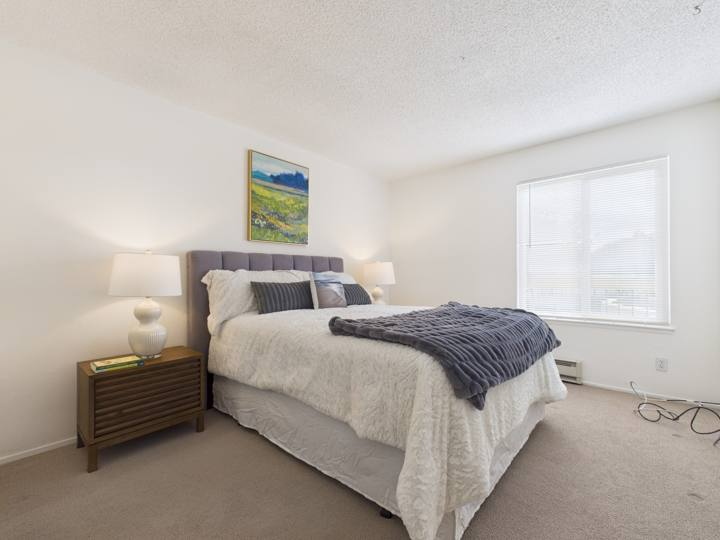
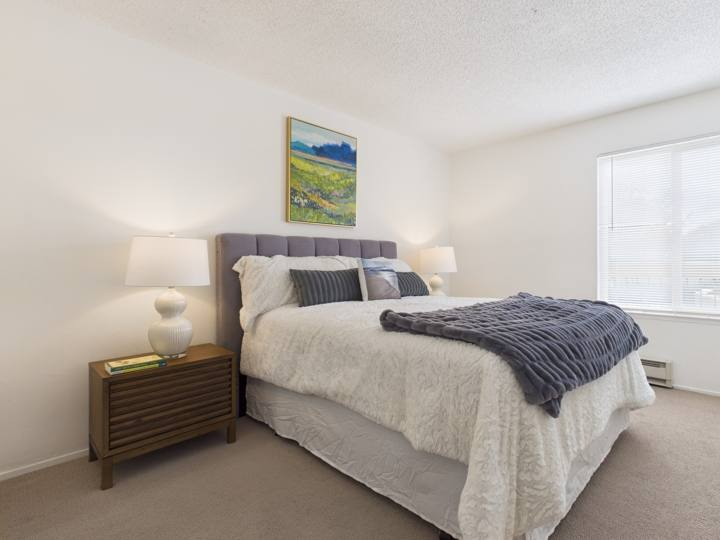
Add files via upload

diff --git a/index.html b/index.html
@@ -68,7 +68,7 @@ nav{display:flex;gap:26px;align-items:center}
 nav a{color:#e9efe2;text-decoration:none;font-size:.82rem;font-weight:600;letter-spacing:.08em;text-transform:uppercase}
 nav a:hover{color:var(--gold)}
 nav .btn{padding:.6em 1.2em;text-transform:none;letter-spacing:.02em;color:#1b2a12}
-@media (max-width:900px){nav a:not(.btn){display:none}}
+@media (max-width:1080px){nav a:not(.btn){display:none}}
 @media (max-width:760px){nav .btn{display:none}}
 
 /* hero */
@@ -127,6 +127,8 @@ nav .btn{padding:.6em 1.2em;text-transform:none;letter-spacing:.02em;color:#1b2a
 /* tour + plan */
 .stage{position:relative;aspect-ratio:16/9;border-radius:6px;overflow:hidden;background:#0a140b;box-shadow:0 30px 80px -30px rgba(0,0,0,.6)}
 @media (max-width:700px){.stage{aspect-ratio:4/5}}
+.stage.card{aspect-ratio:4/3;max-height:820px;width:100%}
+@media (max-width:700px){.stage.card{aspect-ratio:3/5}}
 .stage iframe{position:absolute;inset:0;width:100%;height:100%;border:0}
 .facade{position:absolute;inset:0;display:grid;place-items:center;text-align:center;color:#fff;background-size:cover;background-position:center}
 .facade::before{content:"";position:absolute;inset:0;background:rgba(12,26,14,.55)}
@@ -216,6 +218,7 @@ footer b{color:#e9efe2;font-weight:600}
       <a href="#tour">3D tour</a>
       <a href="#plan">Floor plan</a>
       <a href="#community">Golden Oaks</a>
+      <a href="#neighborhood">Neighborhood</a>
       <a class="btn btn-gold" href="#contact">Schedule a showing</a>
     </nav>
   </div>
@@ -254,7 +257,7 @@ footer b{color:#e9efe2;font-weight:600}
         <p>Inside, everything is on one level: an open living and dining room with a fireplace, an updated kitchen with stainless appliances, two bedrooms, and a bath with a separate dressing room and walk-in closet. Parking and the laundry are a short walk from the door.</p>
         <p><a class="btn btn-dark" href="#gallery">See every room</a></p>
       </div>
-      <div class="frame"><img src="img/living.jpg" alt="Living room with fireplace and sliding doors to the patio" loading="lazy"></div>
+      <div class="frame"><img src="img/patio.jpg" alt="The expanded patio with seating, looking toward the oaks" loading="lazy"></div>
     </div>
     <ul class="feats">
       <li><b>Single level</b><span>Ground-floor entry with no interior stairs.</span></li>
@@ -264,7 +267,7 @@ footer b{color:#e9efe2;font-weight:600}
       <li><b>Updated kitchen</b><span>Stone-look counters and stainless appliances.</span></li>
       <li><b>Dressing room</b><span>Separate vanity area plus a walk-in closet.</span></li>
       <li><b>Included</b><span>Range, refrigerator and dishwasher.</span></li>
-      <li><b>Close by</b><span>Parking and community laundry near the door.</span></li>
+      <li><b>Parking and laundry</b><span>Underground reserved parking, with community laundry near the door.</span></li>
     </ul>
   </div>
 </section>
@@ -272,7 +275,7 @@ footer b{color:#e9efe2;font-weight:600}
 <section id="gallery" class="night">
   <div class="wrap">
     <div class="head">
-      <div><p class="eyebrow">Gallery</p><h2>Room by <em>room.</em></h2></div>
+      <div><p class="eyebrow">Gallery</p><h2>Outside in, <em>room by room.</em></h2></div>
       <p class="muted">Select any photo to view it full screen. Use the arrow keys to move between photos.</p>
     </div>
     <div class="grid" id="grid"></div>
@@ -340,13 +343,33 @@ footer b{color:#e9efe2;font-weight:600}
     </div>
     <div class="mosaic">
       <figure><img src="img/oaks.jpg" alt="Lawn and benches under the oak trees at Golden Oaks" loading="lazy"><span class="cap">The oak grove</span></figure>
-      <figure><img src="img/pool-sm.jpg" alt="Community pool" loading="lazy"><span class="cap">Pool</span></figure>
+      <figure><img src="img/pool-new-sm.jpg" alt="Community pool" loading="lazy"><span class="cap">Pool</span></figure>
       <figure><img src="img/clubhouse-sm.jpg" alt="Clubhouse patio" loading="lazy"><span class="cap">Clubhouse</span></figure>
       <figure><img src="img/entrance-sm.jpg" alt="Golden Oaks Condominiums entrance sign" loading="lazy"><span class="cap">Entrance</span></figure>
-      <figure><img src="img/exterior2-sm.jpg" alt="Building exterior and landscaped walk" loading="lazy"><span class="cap">The approach</span></figure>
+      <figure><img src="img/picnic-sm.jpg" alt="Mosaic picnic table beside the pool" loading="lazy"><span class="cap">Picnic court</span></figure>
     </div>
   </div>
 </section>
+
+
+<section id="neighborhood" style="background:#f1ecd8">
+  <div class="wrap">
+    <div class="head">
+      <div><p class="eyebrow">Location and neighborhood</p><h2>Around <em>Golden Oaks.</em></h2></div>
+      <p class="muted">An interactive property card: the community from above, the location, media and documents.</p>
+    </div>
+    <div class="stage card" id="cardStage">
+      <div class="facade" style="background-image:url(img/pool-aerial.jpg)">
+        <div>
+          <h3>Golden Oaks property card</h3>
+          <a class="btn btn-gold" id="cardGo" href="https://app.propertycards.ai/recoe7HquXuxg564x" target="_blank" rel="noopener">Open the property card</a>
+        </div>
+      </div>
+    </div>
+    <div class="under"><span class="muted">Property card by PropertyCards</span><a href="https://app.propertycards.ai/recoe7HquXuxg564x" target="_blank" rel="noopener" style="color:var(--forest);font-weight:600">Open the card in a new tab &rarr;</a></div>
+  </div>
+</section>
+
 
 
 <section id="why" class="paper">
@@ -425,11 +448,11 @@ var TOUR_URL = "https://tour.giraffe360.com/ee6f2360bb324ba2b6e3f24dcafe0441/?v=
 var PLAN3D_URL = "https://my.giraffe360.com/3dflp/t8bc521";
 var R = "";
 var PHOTOS = [
-  ["living","Living room","big"],["kitchen-dining","Kitchen and dining",""],["kitchen","Kitchen",""],
-  ["dining","Dining","wide"],["primary","Primary bedroom","big"],["living2","Living room",""],
-  ["bath","Bath vanity",""],["bedroom2","Second bedroom","wide"],["kitchen2","Kitchen",""],
-  ["primary2","Primary bedroom",""],["bath2","Bath",""],["closet","Walk-in closet",""],
-  ["exterior","Building exterior","wide"],["exterior2","The approach","wide"]
+  ["exterior","Building exterior","big"],["patio-view","View from the patio",""],["garden","Garden outlook",""],
+  ["patio","Expanded patio","wide"],["exterior2","The approach","wide"],["pool-new","Community pool","wide"],
+  ["living","Living room","big"],["fireplace","Fireplace",""],["dining-detail","Dining",""],
+  ["dining","Dining","wide"],["kitchen-dining","Kitchen and dining","wide"],["kitchen","Kitchen",""],
+  ["kitchen2","Kitchen",""],["primary","Primary bedroom","wide"],["bedroom2","Second bedroom","wide"]
 ];
 // ---------------------------------------------------------------------
 (function(){
@@ -463,6 +486,10 @@ var PHOTOS = [
     var f=document.createElement("iframe");f.src=TOUR_URL;f.title="3D virtual tour of 2107 Golden Oaks Lane";f.allowFullscreen=true;f.allow="fullscreen; xr-spatial-tracking; gyroscope; accelerometer";
     var s=document.getElementById("tourStage");s.innerHTML="";s.appendChild(f);
   });
+
+  // property card: plays inside the page on the live site
+  var cs=document.getElementById("cardStage");
+  if(cs&&EMBED){var cf=document.createElement("iframe");cf.src="https://app.propertycards.ai/recoe7HquXuxg564x";cf.title="Golden Oaks interactive property card";cf.loading="lazy";cf.allowFullscreen=true;cs.innerHTML="";cs.appendChild(cf)}
 
   // floor plan toggle
   var tg=document.getElementById("toggle"),b2=document.getElementById("b2d"),b3=document.getElementById("b3d"),p2=document.getElementById("plan2d"),p3=document.getElementById("plan3d");

diff --git a/mls/index.html b/mls/index.html
@@ -68,7 +68,7 @@ nav{display:flex;gap:26px;align-items:center}
 nav a{color:#e9efe2;text-decoration:none;font-size:.82rem;font-weight:600;letter-spacing:.08em;text-transform:uppercase}
 nav a:hover{color:var(--gold)}
 nav .btn{padding:.6em 1.2em;text-transform:none;letter-spacing:.02em;color:#1b2a12}
-@media (max-width:900px){nav a:not(.btn){display:none}}
+@media (max-width:1080px){nav a:not(.btn){display:none}}
 @media (max-width:760px){nav .btn{display:none}}
 
 /* hero */
@@ -127,6 +127,8 @@ nav .btn{padding:.6em 1.2em;text-transform:none;letter-spacing:.02em;color:#1b2a
 /* tour + plan */
 .stage{position:relative;aspect-ratio:16/9;border-radius:6px;overflow:hidden;background:#0a140b;box-shadow:0 30px 80px -30px rgba(0,0,0,.6)}
 @media (max-width:700px){.stage{aspect-ratio:4/5}}
+.stage.card{aspect-ratio:4/3;max-height:820px;width:100%}
+@media (max-width:700px){.stage.card{aspect-ratio:3/5}}
 .stage iframe{position:absolute;inset:0;width:100%;height:100%;border:0}
 .facade{position:absolute;inset:0;display:grid;place-items:center;text-align:center;color:#fff;background-size:cover;background-position:center}
 .facade::before{content:"";position:absolute;inset:0;background:rgba(12,26,14,.55)}
@@ -166,7 +168,7 @@ nav .btn{padding:.6em 1.2em;text-transform:none;letter-spacing:.02em;color:#1b2a
 .why{display:grid;grid-template-columns:repeat(3,1fr);gap:0;margin-top:44px;border-top:1px solid var(--line)}
 .why div{padding:28px 28px 0 0}
 .why b{display:block;font-family:var(--display);font-weight:300;font-size:clamp(2.6rem,5vw,4.2rem);color:var(--forest);line-height:1;font-variant-numeric:tabular-nums}
-.why span{display:block;margin-top:10px;color:var(--muted);font-size:.95rem;max-width:30ch}
+.why span{display:block;margin-top:10px;color:var(--muted);font-size:.95rem;max-width:34ch}
 @media (max-width:760px){.why{grid-template-columns:1fr}}
 
 /* contact */
@@ -217,6 +219,7 @@ footer b{color:#e9efe2;font-weight:600}
       <a href="#plan">Floor plan</a>
       <a href="#community">Golden Oaks</a>
       
+      
     </nav>
   </div>
 </header>
@@ -254,7 +257,7 @@ footer b{color:#e9efe2;font-weight:600}
         <p>Inside, everything is on one level: an open living and dining room with a fireplace, an updated kitchen with stainless appliances, two bedrooms, and a bath with a separate dressing room and walk-in closet. Parking and the laundry are a short walk from the door.</p>
         <p><a class="btn btn-dark" href="#gallery">See every room</a></p>
       </div>
-      <div class="frame"><img src="../img/living.jpg" alt="Living room with fireplace and sliding doors to the patio" loading="lazy"></div>
+      <div class="frame"><img src="../img/patio.jpg" alt="The expanded patio with seating, looking toward the oaks" loading="lazy"></div>
     </div>
     <ul class="feats">
       <li><b>Single level</b><span>Ground-floor entry with no interior stairs.</span></li>
@@ -264,7 +267,7 @@ footer b{color:#e9efe2;font-weight:600}
       <li><b>Updated kitchen</b><span>Stone-look counters and stainless appliances.</span></li>
       <li><b>Dressing room</b><span>Separate vanity area plus a walk-in closet.</span></li>
       <li><b>Included</b><span>Range, refrigerator and dishwasher.</span></li>
-      <li><b>Close by</b><span>Parking and community laundry near the door.</span></li>
+      <li><b>Parking and laundry</b><span>Underground reserved parking, with community laundry near the door.</span></li>
     </ul>
   </div>
 </section>
@@ -272,7 +275,7 @@ footer b{color:#e9efe2;font-weight:600}
 <section id="gallery" class="night">
   <div class="wrap">
     <div class="head">
-      <div><p class="eyebrow">Gallery</p><h2>Room by <em>room.</em></h2></div>
+      <div><p class="eyebrow">Gallery</p><h2>Outside in, <em>room by room.</em></h2></div>
       <p class="muted">Select any photo to view it full screen. Use the arrow keys to move between photos.</p>
     </div>
     <div class="grid" id="grid"></div>
@@ -340,13 +343,15 @@ footer b{color:#e9efe2;font-weight:600}
     </div>
     <div class="mosaic">
       <figure><img src="../img/oaks.jpg" alt="Lawn and benches under the oak trees at Golden Oaks" loading="lazy"><span class="cap">The oak grove</span></figure>
-      <figure><img src="../img/pool-sm.jpg" alt="Community pool" loading="lazy"><span class="cap">Pool</span></figure>
+      <figure><img src="../img/pool-new-sm.jpg" alt="Community pool" loading="lazy"><span class="cap">Pool</span></figure>
       <figure><img src="../img/clubhouse-sm.jpg" alt="Clubhouse patio" loading="lazy"><span class="cap">Clubhouse</span></figure>
       <figure><img src="../img/entrance-sm.jpg" alt="Golden Oaks Condominiums entrance sign" loading="lazy"><span class="cap">Entrance</span></figure>
-      <figure><img src="../img/exterior2-sm.jpg" alt="Building exterior and landscaped walk" loading="lazy"><span class="cap">The approach</span></figure>
+      <figure><img src="../img/picnic-sm.jpg" alt="Mosaic picnic table beside the pool" loading="lazy"><span class="cap">Picnic court</span></figure>
     </div>
   </div>
 </section>
+
+
 
 
 
@@ -374,11 +379,11 @@ var TOUR_URL = "https://tour.giraffe360.com/ee6f2360bb324ba2b6e3f24dcafe0441/?v=
 var PLAN3D_URL = "https://my.giraffe360.com/3dflp/t8bc521";
 var R = "../";
 var PHOTOS = [
-  ["living","Living room","big"],["kitchen-dining","Kitchen and dining",""],["kitchen","Kitchen",""],
-  ["dining","Dining","wide"],["primary","Primary bedroom","big"],["living2","Living room",""],
-  ["bath","Bath vanity",""],["bedroom2","Second bedroom","wide"],["kitchen2","Kitchen",""],
-  ["primary2","Primary bedroom",""],["bath2","Bath",""],["closet","Walk-in closet",""],
-  ["exterior","Building exterior","wide"],["exterior2","The approach","wide"]
+  ["exterior","Building exterior","big"],["patio-view","View from the patio",""],["garden","Garden outlook",""],
+  ["patio","Expanded patio","wide"],["exterior2","The approach","wide"],["pool-new","Community pool","wide"],
+  ["living","Living room","big"],["fireplace","Fireplace",""],["dining-detail","Dining",""],
+  ["dining","Dining","wide"],["kitchen-dining","Kitchen and dining","wide"],["kitchen","Kitchen",""],
+  ["kitchen2","Kitchen",""],["primary","Primary bedroom","wide"],["bedroom2","Second bedroom","wide"]
 ];
 // ---------------------------------------------------------------------
 (function(){
@@ -412,6 +417,10 @@ var PHOTOS = [
     var f=document.createElement("iframe");f.src=TOUR_URL;f.title="3D virtual tour of 2107 Golden Oaks Lane";f.allowFullscreen=true;f.allow="fullscreen; xr-spatial-tracking; gyroscope; accelerometer";
     var s=document.getElementById("tourStage");s.innerHTML="";s.appendChild(f);
   });
+
+  // property card: plays inside the page on the live site
+  var cs=document.getElementById("cardStage");
+  if(cs&&EMBED){var cf=document.createElement("iframe");cf.src="https://app.propertycards.ai/recoe7HquXuxg564x";cf.title="Golden Oaks interactive property card";cf.loading="lazy";cf.allowFullscreen=true;cs.innerHTML="";cs.appendChild(cf)}
 
   // floor plan toggle
   var tg=document.getElementById("toggle"),b2=document.getElementById("b2d"),b3=document.getElementById("b3d"),p2=document.getElementById("plan2d"),p3=document.getElementById("plan3d");
